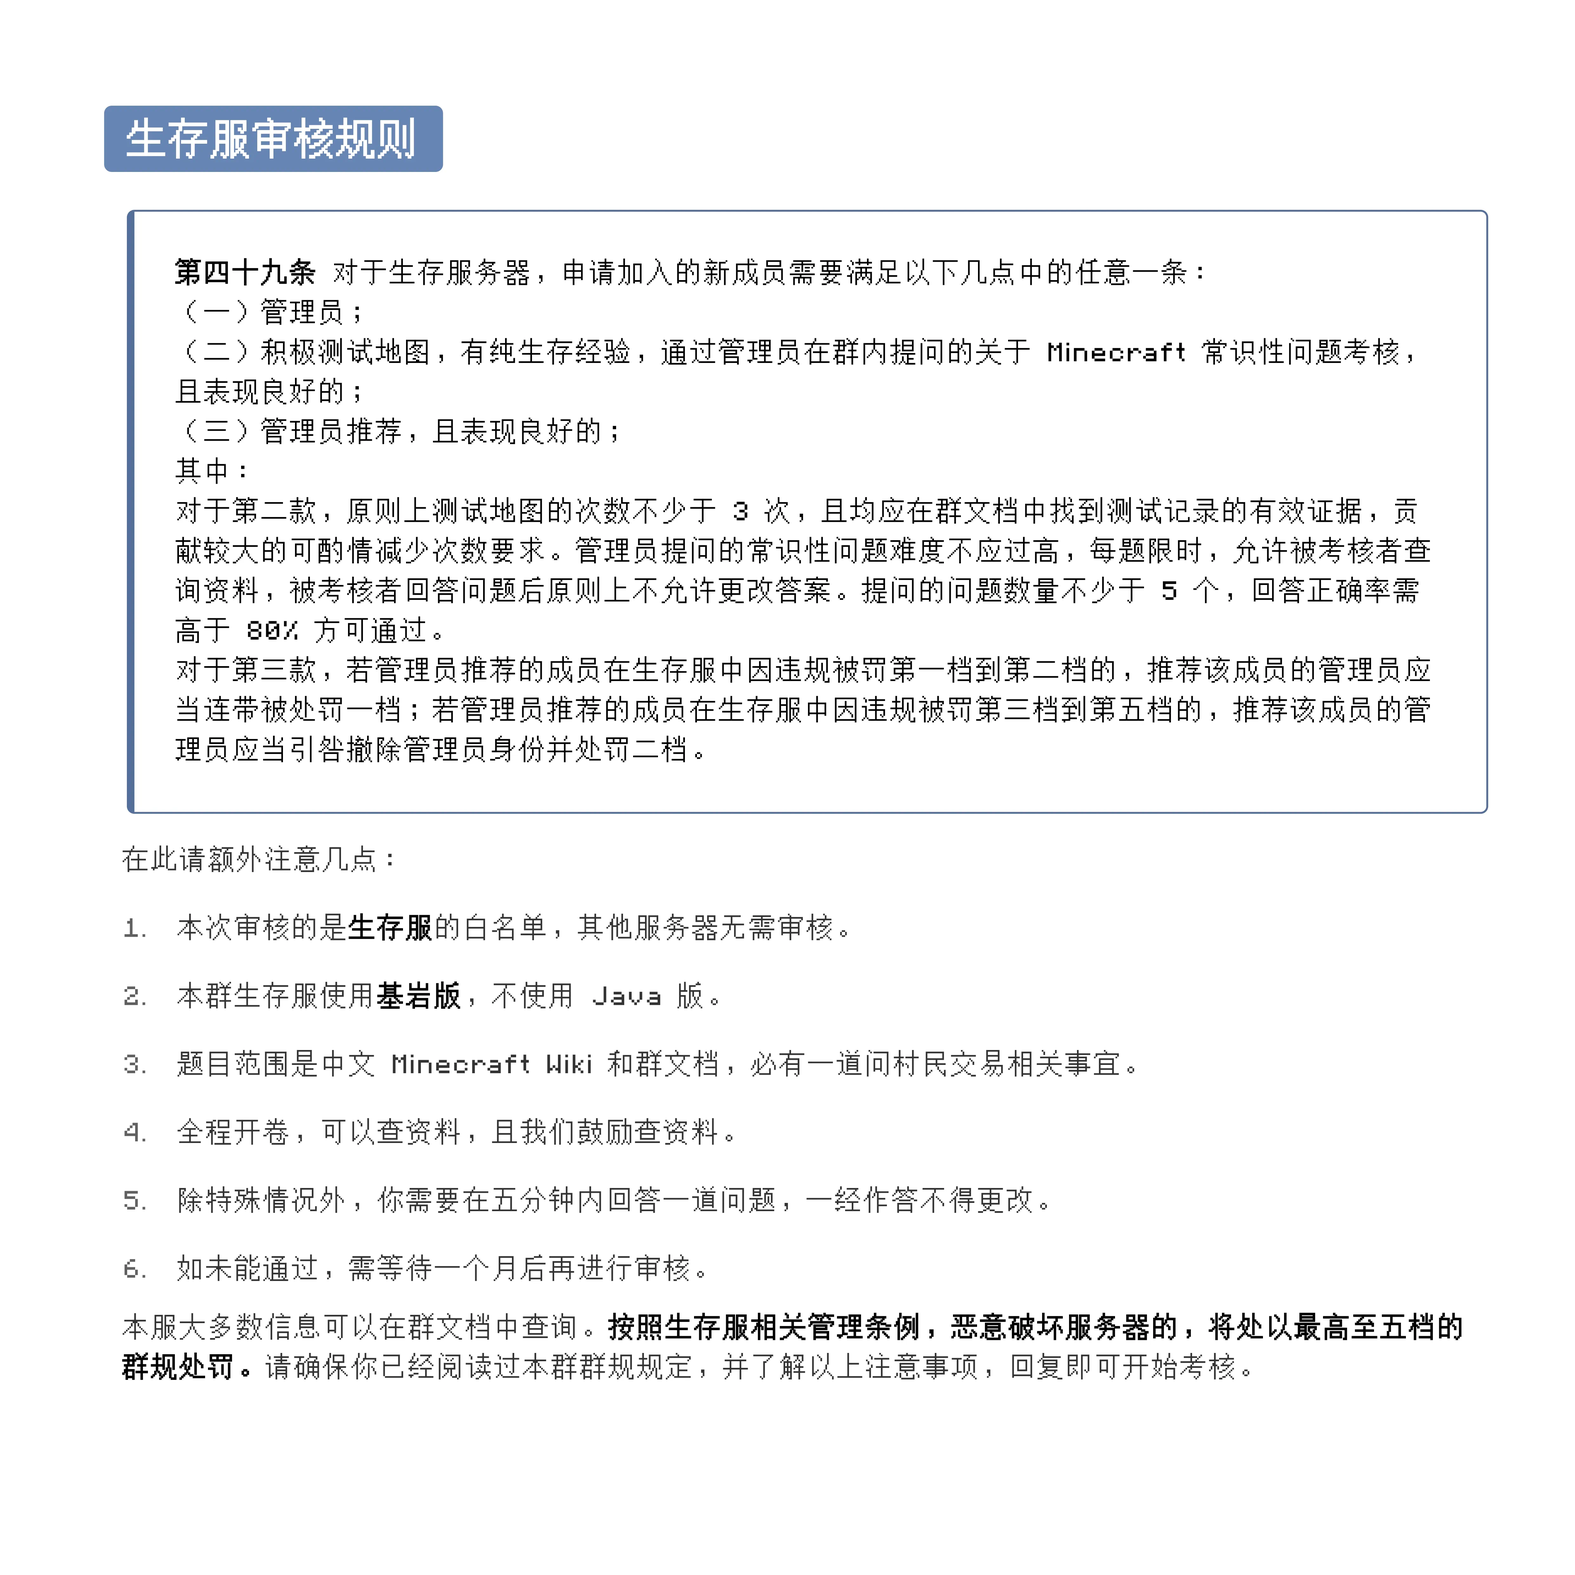
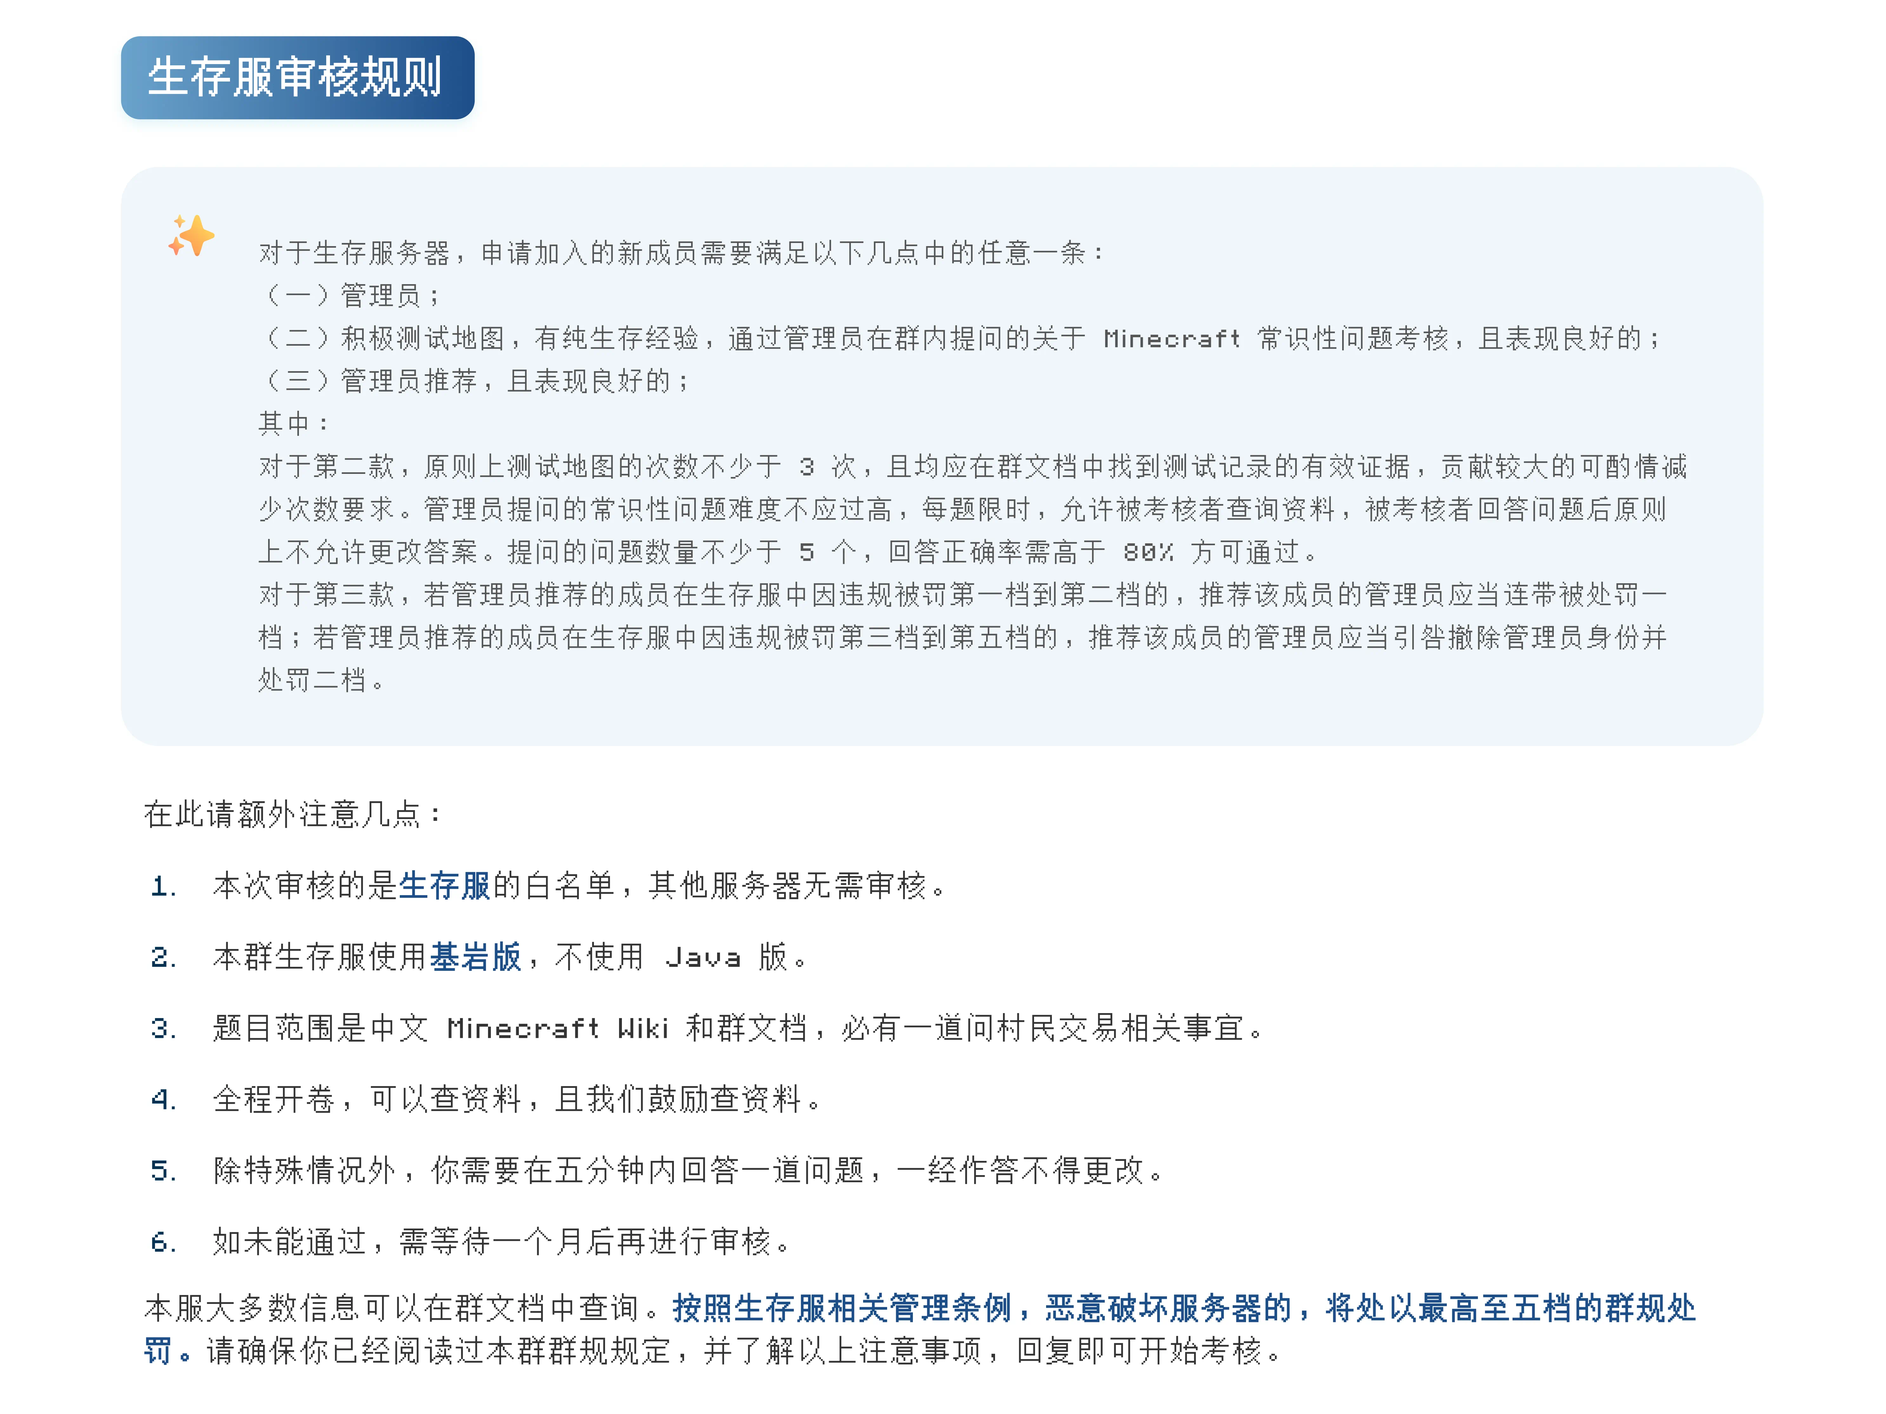
[优化] 图片压缩

diff --git a/docs/resources/aw/aw5/planning_case.md b/docs/resources/aw/aw5/planning_case.md
@@ -16,19 +16,19 @@ import ImageGroup from "/src/components/image/group"
 
 <ImageGroup>
 
-<Image src="/resources/aw5/planning_case/1.jpg" text="地图整体设计（1/31）" size="33%" />
-<Image src="/resources/aw5/planning_case/2.jpg" text="村庄建筑与可收集物品的设计（2/31）" size="33%" />
-<Image src="/resources/aw5/planning_case/3.jpg" text="迷宫顺序设计（3/31）" size="33%" />
-<Image src="/resources/aw5/planning_case/4.jpg" text="道具功能（4/31）" size="33%" />
-<Image src="/resources/aw5/planning_case/15.jpg" text="全物品清单（15/31）" size="33%" />
-<Image src="/resources/aw5/planning_case/23.jpg" text="心之碎片与心之容器清单（23/31）" size="33%" />
-<Image src="/resources/aw5/planning_case/24.jpg" text="全材料清单（24/31）" size="33%" />
-<Image src="/resources/aw5/planning_case/12.jpg" text="细节设计 1（12/31）" size="33%" />
-<Image src="/resources/aw5/planning_case/13.jpg" text="细节设计 2（13/31）" size="33%" />
-<Image src="/resources/aw5/planning_case/14.jpg" text="细节设计 3（14/31）" size="33%" />
-<Image src="/resources/aw5/planning_case/26.jpg" text="对迷失森林和明月森林的后续修改（26/31）" size="33%" />
-<Image src="/resources/aw5/planning_case/30.jpg" text="对全材料清单的后续修改（30/31）" size="33%" />
-<Image src="/resources/aw5/planning_case/31.jpg" text="测试员进地图内的标准（31/31）" size="33%" />
+<Image src="/resources/aw5/planning_case/1.webp" text="地图整体设计（1/31）" size="33%" />
+<Image src="/resources/aw5/planning_case/2.webp" text="村庄建筑与可收集物品的设计（2/31）" size="33%" />
+<Image src="/resources/aw5/planning_case/3.webp" text="迷宫顺序设计（3/31）" size="33%" />
+<Image src="/resources/aw5/planning_case/4.webp" text="道具功能（4/31）" size="33%" />
+<Image src="/resources/aw5/planning_case/15.webp" text="全物品清单（15/31）" size="33%" />
+<Image src="/resources/aw5/planning_case/23.webp" text="心之碎片与心之容器清单（23/31）" size="33%" />
+<Image src="/resources/aw5/planning_case/24.webp" text="全材料清单（24/31）" size="33%" />
+<Image src="/resources/aw5/planning_case/12.webp" text="细节设计 1（12/31）" size="33%" />
+<Image src="/resources/aw5/planning_case/13.webp" text="细节设计 2（13/31）" size="33%" />
+<Image src="/resources/aw5/planning_case/14.webp" text="细节设计 3（14/31）" size="33%" />
+<Image src="/resources/aw5/planning_case/26.webp" text="对迷失森林和明月森林的后续修改（26/31）" size="33%" />
+<Image src="/resources/aw5/planning_case/30.webp" text="对全材料清单的后续修改（30/31）" size="33%" />
+<Image src="/resources/aw5/planning_case/31.webp" text="测试员进地图内的标准（31/31）" size="33%" />
 
 </ImageGroup>
 
@@ -36,12 +36,12 @@ import ImageGroup from "/src/components/image/group"
 
 <ImageGroup>
 
-<Image src="/resources/aw5/planning_case/5.jpg" text="区域地图 1（沙漠、沙滩）（5/31）" size="33%" />
-<Image src="/resources/aw5/planning_case/6.jpg" text="区域地图 2（村庄）（6/31）" size="67%" />
-<Image src="/resources/aw5/planning_case/7.jpg" text="区域地图 3（草原、海洋）（7/31）" size="33%" />
-<Image src="/resources/aw5/planning_case/8.jpg" text="区域地图 4（粘土山、农田）（8/31）" size="33%" />
-<Image src="/resources/aw5/planning_case/9.jpg" text="区域地图 5（高山、森林）（9/31）" size="33%" />
-<Image src="/resources/aw5/planning_case/10.jpg" text="区域地图 6（平原）（10/31）" size="67%" />
+<Image src="/resources/aw5/planning_case/5.webp" text="区域地图 1（沙漠、沙滩）（5/31）" size="33%" />
+<Image src="/resources/aw5/planning_case/6.webp" text="区域地图 2（村庄）（6/31）" size="67%" />
+<Image src="/resources/aw5/planning_case/7.webp" text="区域地图 3（草原、海洋）（7/31）" size="33%" />
+<Image src="/resources/aw5/planning_case/8.webp" text="区域地图 4（粘土山、农田）（8/31）" size="33%" />
+<Image src="/resources/aw5/planning_case/9.webp" text="区域地图 5（高山、森林）（9/31）" size="33%" />
+<Image src="/resources/aw5/planning_case/10.webp" text="区域地图 6（平原）（10/31）" size="67%" />
 
 </ImageGroup>
 
@@ -49,16 +49,16 @@ import ImageGroup from "/src/components/image/group"
 
 <ImageGroup>
 
-<Image src="/resources/aw5/planning_case/16.jpg" text="第一大矿洞（16/31）" size="33%" />
-<Image src="/resources/aw5/planning_case/17.jpg" text="浮空峰遗迹（17/31）" size="33%" />
-<Image src="/resources/aw5/planning_case/19.jpg" text="逍遥矿井（19/31）" size="33%" />
-<Image src="/resources/aw5/planning_case/21.jpg" text="地铁控制室（21/31）" size="33%" />
-<Image src="/resources/aw5/planning_case/20.jpg" text="林地府邸 F1（20/31）" size="33%" />
-<Image src="/resources/aw5/planning_case/22.jpg" text="林地府邸 F2（22/31）" size="33%" />
-<Image src="/resources/aw5/planning_case/27.jpg" text="海底神殿（27/31）" size="33%" />
-<Image src="/resources/aw5/planning_case/28.jpg" text="下界要塞（28/31）" size="33%" />
-<Image src="/resources/aw5/planning_case/29.jpg" text="时间神庙（29/31）" size="33%" />
-<Image src="/resources/aw5/planning_case/18.jpg" text="对迷宫设计的后续修改（18/31）" size="33%" />
+<Image src="/resources/aw5/planning_case/16.webp" text="第一大矿洞（16/31）" size="33%" />
+<Image src="/resources/aw5/planning_case/17.webp" text="浮空峰遗迹（17/31）" size="33%" />
+<Image src="/resources/aw5/planning_case/19.webp" text="逍遥矿井（19/31）" size="33%" />
+<Image src="/resources/aw5/planning_case/21.webp" text="地铁控制室（21/31）" size="33%" />
+<Image src="/resources/aw5/planning_case/20.webp" text="林地府邸 F1（20/31）" size="33%" />
+<Image src="/resources/aw5/planning_case/22.webp" text="林地府邸 F2（22/31）" size="33%" />
+<Image src="/resources/aw5/planning_case/27.webp" text="海底神殿（27/31）" size="33%" />
+<Image src="/resources/aw5/planning_case/28.webp" text="下界要塞（28/31）" size="33%" />
+<Image src="/resources/aw5/planning_case/29.webp" text="时间神庙（29/31）" size="33%" />
+<Image src="/resources/aw5/planning_case/18.webp" text="对迷宫设计的后续修改（18/31）" size="33%" />
 
 </ImageGroup>
 
@@ -66,7 +66,7 @@ import ImageGroup from "/src/components/image/group"
 
 <ImageGroup>
 
-<Image src="/resources/aw5/planning_case/11.jpg" text="背景故事与剧情（11/31）" size="33%" />
-<Image src="/resources/aw5/planning_case/25.jpg" text="前往林地府邸的流程（25/31）" size="33%" />
+<Image src="/resources/aw5/planning_case/11.webp" text="背景故事与剧情（11/31）" size="33%" />
+<Image src="/resources/aw5/planning_case/25.webp" text="前往林地府邸的流程（25/31）" size="33%" />
 
 </ImageGroup>

diff --git a/docs/servers/s3/industries/zombified_piglin_farm.md b/docs/servers/s3/industries/zombified_piglin_farm.md
@@ -7,7 +7,7 @@ authors: [量筒]
 
 猪人塔是用于产出金和经验的核心工业机器。
 
-![猪人塔](/servers/s3/industries/zombified_piglin_farm/description.png)
+![猪人塔](/servers/s3/industries/zombified_piglin_farm/description.webp)
 
 ## 基础信息
 
@@ -33,19 +33,19 @@ authors: [量筒]
 
 :::
 
-![水电梯](/servers/s3/industries/zombified_piglin_farm/elevator.png)
+![水电梯](/servers/s3/industries/zombified_piglin_farm/elevator.webp)
 
 ### 空岛层：猪人塔主体结构
 
 从水电梯上来后到达空岛层，这个房子和埋于空岛内部的结构即为猪人塔的主体结构。
 
-![空岛层](/servers/s3/industries/zombified_piglin_farm/island.png)
+![空岛层](/servers/s3/industries/zombified_piglin_farm/island.webp)
 
 ### 猪人塔总控室
 
 房子内部即为猪人塔总控室。在这里进行猪人塔的开关控制，同时也进行僵尸猪灵的处死工作和产物收集工作。
 
-![内部结构](/servers/s3/industries/zombified_piglin_farm/inside.png)
+![内部结构](/servers/s3/industries/zombified_piglin_farm/inside.webp)
 
 ## 猪人塔总控室的具体布局
 
@@ -53,7 +53,7 @@ authors: [量筒]
 
 第三代猪人塔的总控区如下图所示。总控区一共有 3 个开关：
 
-![总控区](/servers/s3/industries/zombified_piglin_farm/control_area.png)
+![总控区](/servers/s3/industries/zombified_piglin_farm/control_area.webp)
 
 - 【左 1】**生成模式开关**：控制猪人塔启用何种生成模式。低功耗模式（关闭拉杆）将启用 8 个门中的 4 个门，为兼顾性能和产出的模式；而满载模式（开启拉杆）则将启用全部 8 个下界门。
 
@@ -79,13 +79,13 @@ authors: [量筒]
 
 第三代猪人塔的处死区如下图所示。处死区用于处死生成的大量猪人。
 
-![处死区](/servers/s3/industries/zombified_piglin_farm/execute_area_1.png)
+![处死区](/servers/s3/industries/zombified_piglin_farm/execute_area_1.webp)
 
 - **公用三叉戟储备盒（上图红色区域）**：储存猪人塔专用三叉戟。这些三叉戟为公共财产，仅限在猪人塔内使用，禁止私自取走。
   - 8 根公用三叉戟的名称分别为：王族之枪、骑士之枪、士兵之枪、旅人之枪、小鼠定制的猪人塔按摩器、鸽子的小钢梳、看我 hyperdash、烤猪叉
   - 如果你在离开后发现你有以上名称的三叉戟，必须归还到猪人塔。
 - **三叉戟安插区（上图蓝色区域）**：第三代猪人塔的使用条件相对要严苛很多。在使用时，必须在绿宝石块上，靠近铁活板门的位置安插三叉戟。以绿宝石的原版贴图为参考，按深色环状贴图为分界分为三个环，可安插区域限于绿宝石块的内环线到中环线的中间区域。**为兼顾处死效率和抗卸载能力，请尽可能将三叉戟安插在两线中间**（过于靠内环则无法处死，过于靠外环则抗卸载能力过差），如下图所示：  
-  ![三叉戟安插最佳点位](/servers/s3/industries/zombified_piglin_farm/execute_area_2.png)  
+  ![三叉戟安插最佳点位](/servers/s3/industries/zombified_piglin_farm/execute_area_2.webp)  
   我们深知这个安插要求要严苛得多，所幸我们发现了一种更简单且更标准的安插方案，在使用方法一章我们会详细强调。
 
 ### 挂机区
@@ -94,7 +94,7 @@ authors: [量筒]
 
 如果挂机区没有人，经验仍然会被自动销毁以防止实体堆积，这可以节约性能。
 
-![挂机区](/servers/s3/industries/zombified_piglin_farm/afk_area.png)
+![挂机区](/servers/s3/industries/zombified_piglin_farm/afk_area.webp)
 
 ### 产物收集区（金块）
 
@@ -102,7 +102,7 @@ authors: [量筒]
 
 > **注**：相比于第二代猪人塔，产物收集区不再尝试收集腐肉。
 
-![产物收集区](/servers/s3/industries/zombified_piglin_farm/collect_area.png)
+![产物收集区](/servers/s3/industries/zombified_piglin_farm/collect_area.webp)
 
 ## 使用方法
 
@@ -111,20 +111,20 @@ authors: [量筒]
 3. 安插三叉戟。安插方法可任选以下两种中的一种。我们强烈推荐按照**标准安插法**安插，以免出现安插失误。
    - **标准安插法**：
      1. 站到按钮外侧，准心对准下图所示的区域，插上 2 根三叉戟，然后准星略微偏上或偏下，插上新的 2 根三叉戟。确保 4 根三叉戟都在如上图所示的范围内。  
-        ![如何使用 1](/servers/s3/industries/zombified_piglin_farm/how_to_use_1.png)  
-        ![如何使用 2](/servers/s3/industries/zombified_piglin_farm/how_to_use_2.png)  
+        ![如何使用 1](/servers/s3/industries/zombified_piglin_farm/how_to_use_1.webp)  
+        ![如何使用 2](/servers/s3/industries/zombified_piglin_farm/how_to_use_2.webp)  
      2. 按下旁边的按钮，此时活塞推动灯笼，会把三叉戟推动到我们预期的位置上去。**如果三叉戟未能被推动，则必须拾起重插**。  
-        ![如何使用 3](/servers/s3/industries/zombified_piglin_farm/how_to_use_3.png)  
+        ![如何使用 3](/servers/s3/industries/zombified_piglin_farm/how_to_use_3.webp)  
      3. 在另一侧，也如法炮制。8 根三叉戟均被推到合适的位置之后方可进行第 4 步，否则必须重新插三叉戟。
-        ![如何使用 4](/servers/s3/industries/zombified_piglin_farm/how_to_use_4.png)  
+        ![如何使用 4](/servers/s3/industries/zombified_piglin_farm/how_to_use_4.webp)  
    - **快速安插法**：直接在我们给出的 2 个最佳点位处分别插上 2 根三叉戟。2 个绿宝石块上合计插 8 根。**未在最佳点位上的三叉戟都应拾起重插**。我们建议仅当使用者足够熟练时使用快速安插法。  
-     ![三叉戟安插最佳点位](/servers/s3/industries/zombified_piglin_farm/execute_area_2.png)  
+     ![三叉戟安插最佳点位](/servers/s3/industries/zombified_piglin_farm/execute_area_2.webp)  
 4. 按照需求选择生成模式，并选择是否启用经验球收集。
    - 我们建议在一般情况下，**生成模式调整为低功耗模式**，并**启用经验球收集**。
    - 如果您对经验有大量需求，可选择满载模式，但必须注意满载模式的使用要求。
    - 如果您对经验丝毫没有需求，可选择关闭经验球收集。
 5. 在登记成员代表物中找到自己的代表物，并安插到物品展示框上。然后拉下总开关，启用猪人塔。
-   ![如何使用 5](/servers/s3/industries/zombified_piglin_farm/how_to_use_5.png)  
+   ![如何使用 5](/servers/s3/industries/zombified_piglin_farm/how_to_use_5.webp)  
 
    :::danger[警告]
 

diff --git a/docs/servers/s3/new.md b/docs/servers/s3/new.md
@@ -34,7 +34,7 @@ authors: [量筒]
 
 - [**新光站**](./areas/xinguang/buildings#新光站)：**新光主城区的火车站**。新光的所有火车站都**贯通服务器的城际铁路和下界交通**，在几大主城区的火车站还都有地铁经过。它们都是名副其实的交通枢纽。下界交通是我们服务器很重要的交通体系，在介绍完新光之后就来带你体验。  
    新光站的结构由站房部分和站台部分组成，站房部分的 -1 楼为地铁层，1 楼为地面层和下界门，2 楼为进站口和出站口。  
-  ![新光站](/servers/s3/areas/xinguang/buildings/xinguang_railway_station.png)
+  ![新光站](/servers/s3/areas/xinguang/buildings/xinguang_railway_station.webp)
 
 - [**武器装备库**](./areas/xinguang/buildings#武器装备库)：里面主要用于存储装备（包括满级装备）。**你可以在这里拿一套满级装备（剑镐斧锹锄+全套盔甲）**。这是比较重要的事情，因为我们服务器是困难模式，它直接决定了你在服务器内的游戏体验。  
   ![武器装备库](/servers/s3/areas/xinguang/buildings/weapon_and_equipment_room.webp)
@@ -63,10 +63,10 @@ authors: [量筒]
   ![刷铁机](/servers/s3/industries/iron_golem_farm.webp)
 
 - [**猪人塔**](./industries/zombified_piglin_farm)：**量产金、腐肉和经验的机器**。猪人塔的地位相信已无需多言——它是核心中的核心！  
-  ![猪人塔](/servers/s3/industries/zombified_piglin_farm/description.png)
+  ![猪人塔](/servers/s3/industries/zombified_piglin_farm/description.webp)
 
 - [**旋转熔炉组**](./areas/xinguang/buildings#旋转熔炉组)：**烧制物品的高速熔炉**，旁边还有简易版的熔岩机可用。  
-  ![旋转熔炉组](/servers/s3/areas/xinguang/buildings/high_speed_furnace.png)
+  ![旋转熔炉组](/servers/s3/areas/xinguang/buildings/high_speed_furnace.webp)
 
 - [**新光西站**](./areas/xinguang/buildings#新光西站)：**位于昌兴区的火车站**。地位和新光站类似，都是地铁、城际铁路和下界交通的交通枢纽。  
   ![新光西站](/servers/s3/areas/xinguang/buildings/xinguang_west_railway_station.webp)

diff --git a/docs/servers/s3/areas/xinguang/buildings.md b/docs/servers/s3/areas/xinguang/buildings.md
@@ -108,7 +108,7 @@ authors: [量筒]
 
 新光站是一栋以青色陶瓦、暗海晶石和闪长岩为主体的、青色白色为主色的多层火车站，处在市中心的位置。
 
-![新光站](/servers/s3/areas/xinguang/buildings/xinguang_railway_station.png)
+![新光站](/servers/s3/areas/xinguang/buildings/xinguang_railway_station.webp)
 
 - **位置**：初晓区，中央大街（-240, -220）
 - **设计**：文雨、绿叶
@@ -228,7 +228,7 @@ authors: [量筒]
 
 本机器可以和无限熔岩机或熔岩机搭配使用，但通常建议使用大量的煤炭块作为燃料。
 
-![旋转熔炉组](/servers/s3/areas/xinguang/buildings/high_speed_furnace.png)
+![旋转熔炉组](/servers/s3/areas/xinguang/buildings/high_speed_furnace.webp)
 
 - **地点**：昌兴区东部，一大矿大道与聚宝街交叉路口（-280, -25）
 - **维修者**：橘子

diff --git a/docs/servers/s3/audit.md b/docs/servers/s3/audit.md
@@ -7,7 +7,7 @@ description: 生存服的审核要求简介。
 
 :::info[群规节选]
 
-**第四十一条** 对于生存服务器，申请加入的新成员需要满足以下几点中的任意一条：  
+对于生存服务器，申请加入的新成员需要满足以下几点中的任意一条：  
 （一）管理员；  
 （二）积极测试地图，有纯生存经验，通过管理员在群内提问的关于 Minecraft 常识性问题考核，且表现良好的；  
 （三）管理员推荐，且表现良好的；  

diff --git a/docs/resources/bedwars/update_log/1_1.md b/docs/resources/bedwars/update_log/1_1.md
@@ -559,7 +559,7 @@ authors: [量筒]
 
 祝你在新版本中偷床顺利 >:)
 
-![1.1_pre_1](/resources/bedwars/update_log/1.1_pre_1.png)
+![1.1_pre_1](/resources/bedwars/update_log/1.1_pre_1.webp)
 
 ### 旁观模式
 
